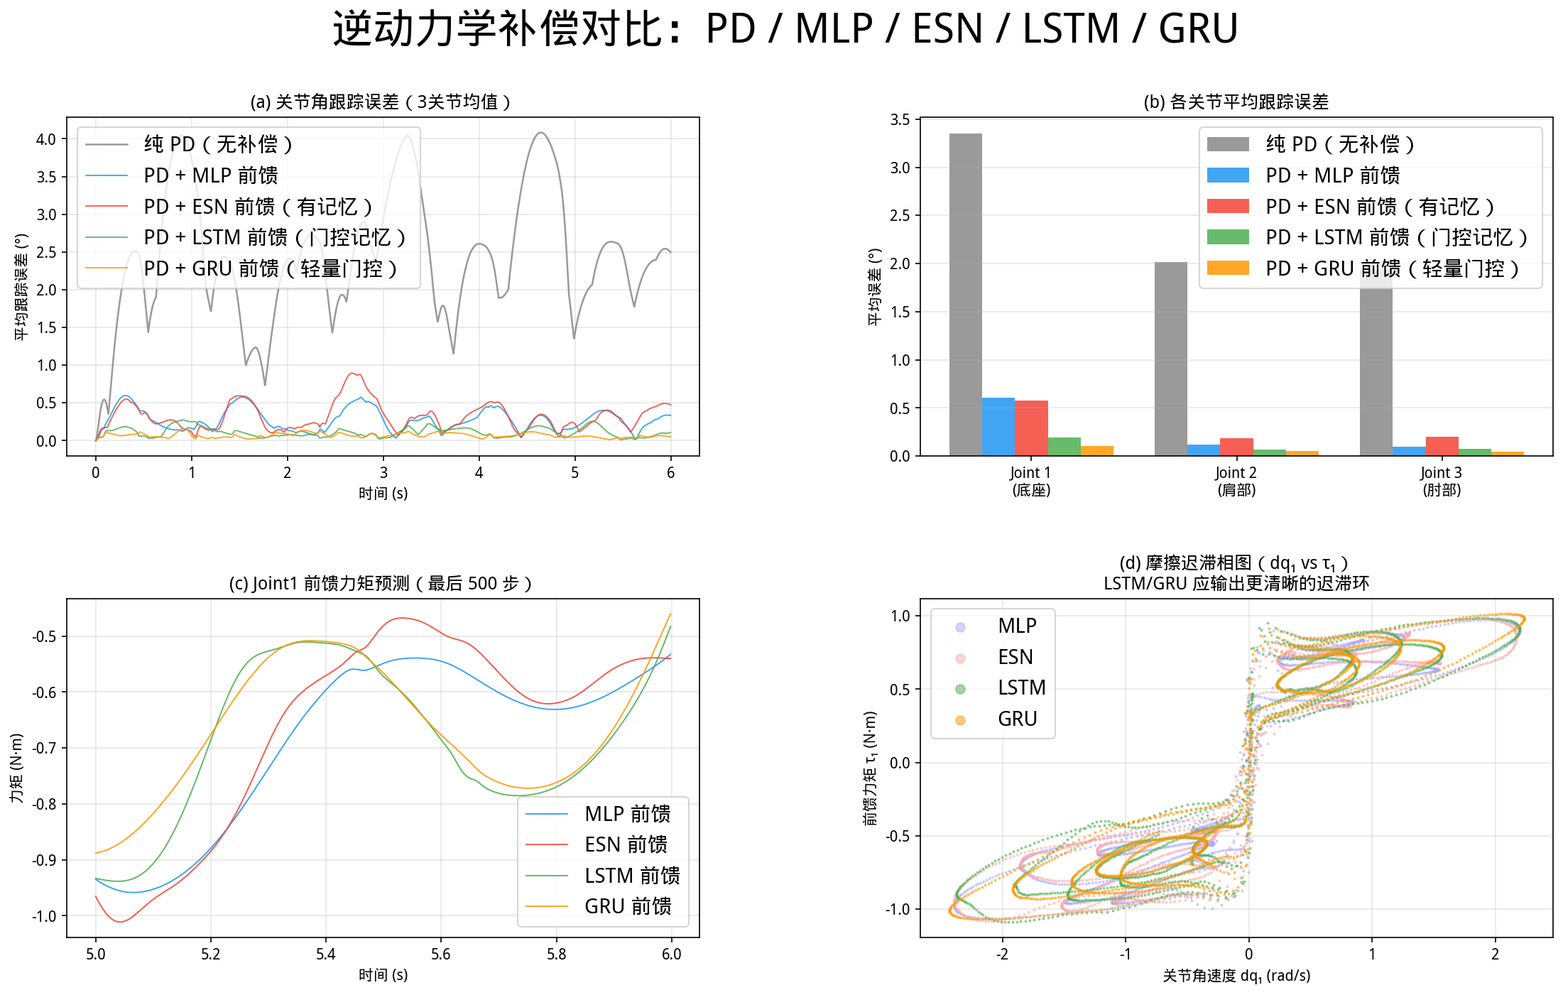
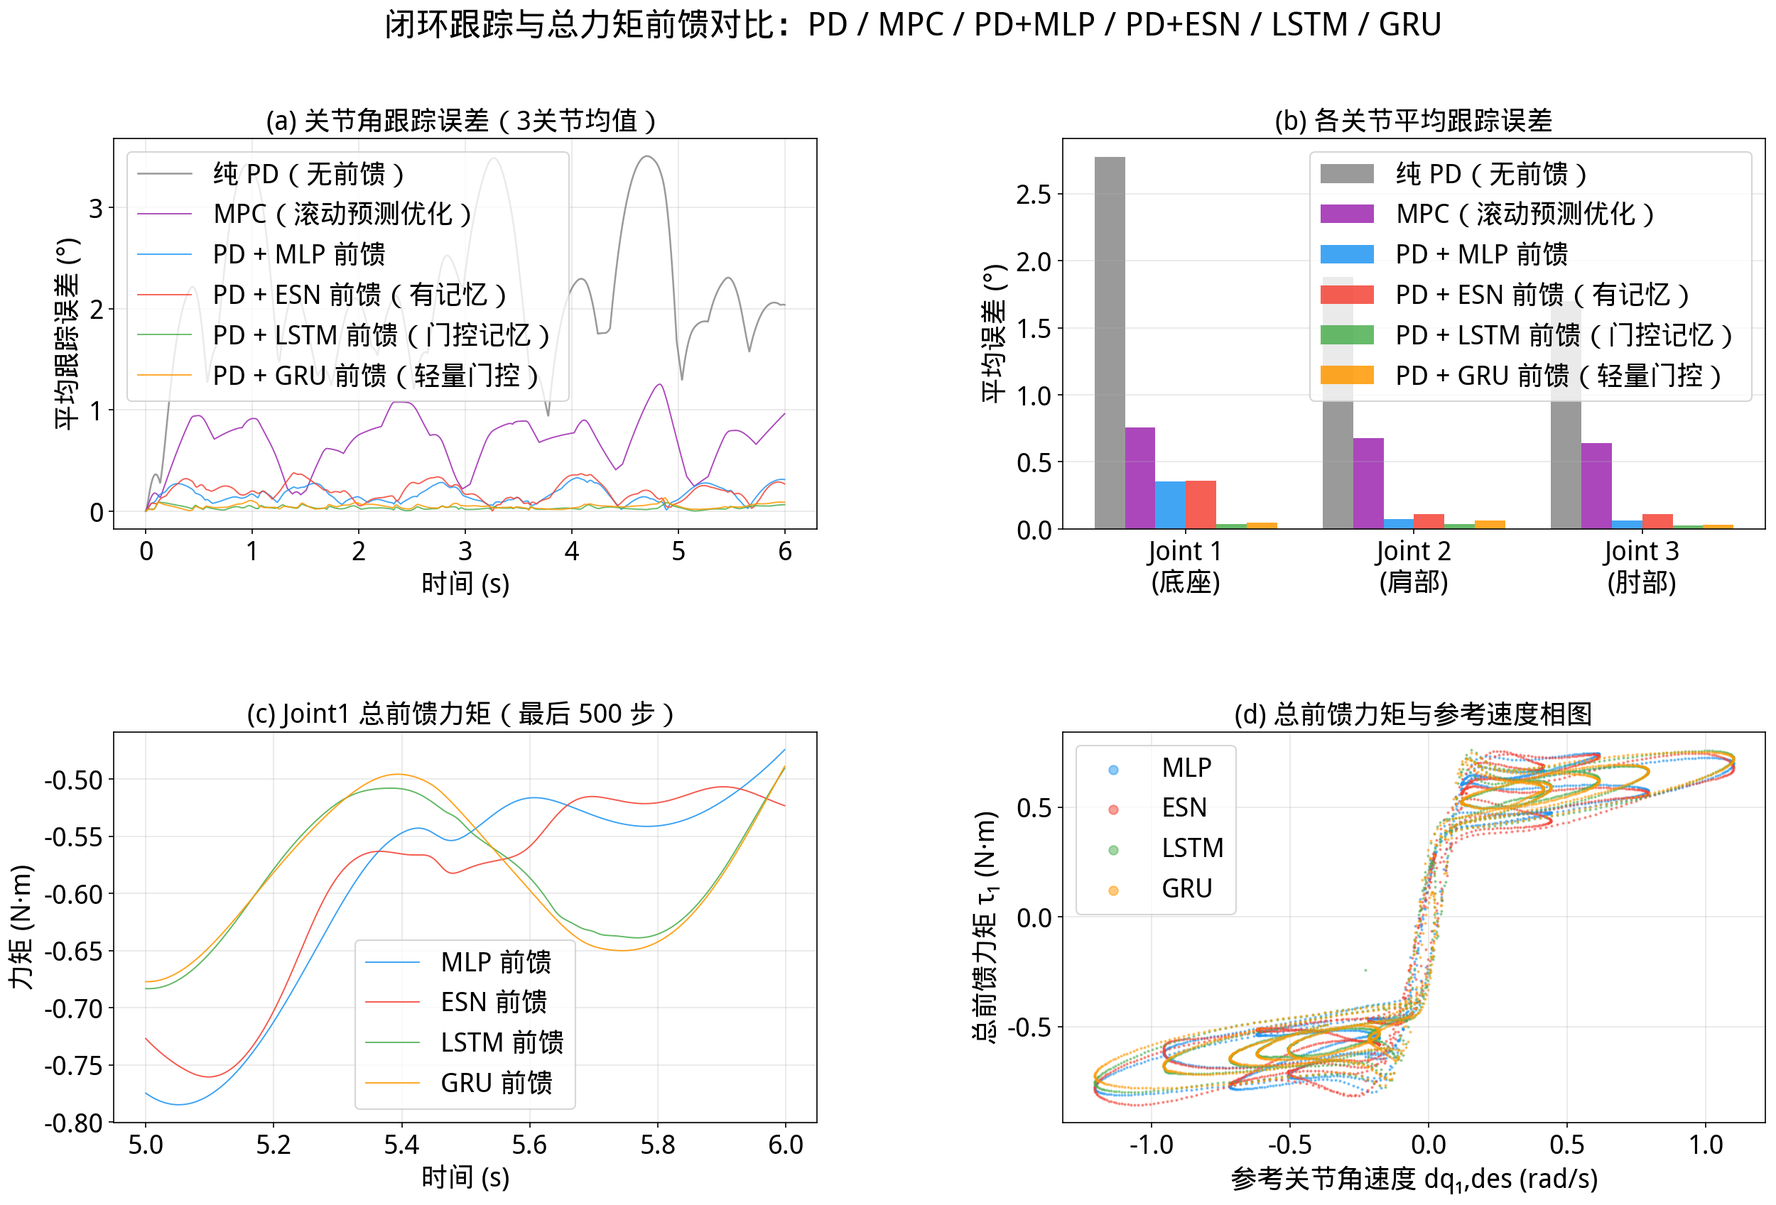
docs: record multi-agent audit and verified simulation results

diff --git a/README.md b/README.md
@@ -98,11 +98,12 @@ RobotARMNN/
 │       ├── data_gen_idyn.py        # IDyn 数据生成（MuJoCo 高刚度 PD 激励，30 条轨迹）
 │       ├── train_idyn.py           # IDyn 训练脚本（MLP / ESN / LSTM / GRU）
         ├── mpc_controller.py       # 🆕 MPC 控制器（滚动预测优化 / 解析 QP，去除 scipy 迭代）
-        └── visualize_idyn.py       # IDyn 控制误差对比图（PD/MPC/MPC+GRU/NN，自动保存）
+        └── visualize_idyn.py       # IDyn 控制误差对比图（PD/MPC/NN，自动保存）
 │
 ├── tests/
 │   ├── __init__.py
-│   └── test_kinematics.py          # 18 项运动学单元测试
+│   ├── test_kinematics.py          # 运动学单元测试
+│   └── test_*regressions.py        # IK、控制展示和训练协议回归
 │
 ├── checkpoints/                    # 已训练模型权重（*.pt / *.npz）
 │   ├── ik_2dof_mlp_best.pt         # 2-DOF IK MLP
@@ -297,7 +298,15 @@ uv run src/visualize_mujoco.py --arm 3dof --use_nn --model_type esn
 
 前馈力矩 τ_ff 由神经网络预测，PD 项负责误差纠偏（弱刚度：KP=8, KD=1.5）。
 
-🆕 **MPC 滚动预测优化**：每步在当前工作点线性化动力学，预测未来 N=10 步并解析求解最优力矩序列（QP 解析解，numpy 直接求解，每步 0.1-0.3 ms），只执行第 0 步，下一控制周期滚动重复。无需训练数据，体现"向前看"的预测控制思想。
+这是通过力矩控制实现位置轨迹跟踪：参考位置/速度进入前馈，实际位置/速度进入 PD。
+当前 MLP、ESN、LSTM、GRU 都学习高增益 PD 的总命令 `outputs`；ESN 使用参考状态历史，
+不直接读取实际状态或误差。它不是专门学习摩擦残差的模型，也不能仅凭环状相图证明摩擦迟滞记忆。
+
+**MPC 滚动预测优化**：每步在当前工作点线性化动力学，预测未来 N=10 步，
+用 numpy 求解无约束二次优化，再截断输出力矩，只执行第 0 步并滚动重复。
+它不依赖 NN 训练，但也不是严格的含力矩约束 QP。
+现有 GRU 输出不能直接作为 MPC 的摩擦残差叠加；原 `mpc_gru` 路径已禁用，
+需要先定义一致的残差目标并训练对应模型，才能重新评估组合方案。
 ### 数据生成
 
 ```bash
@@ -389,13 +398,23 @@ with np.load("export/idyn_poly_friction/selected_model.npz") as model:
 
 ```bash
 uv run src/train_idyn.py --model all     # 训练全部 4 种模型（MLP/ESN/LSTM/GRU）
-uv run src/train_idyn.py --model gru     # 只训练 GRU（最优模型）
+uv run src/train_idyn.py --model gru     # 只训练 GRU
 uv run src/train_idyn.py --model lstm
 uv run src/train_idyn.py --model mlp
 uv run src/train_idyn.py --model esn
 ```
 
-权重保存至 `checkpoints/idyn_3dof_{model}_best.pt`。每次只打印训练结束时的一行汇总，不刷屏。
+权重保存至 `checkpoints/idyn_3dof_{model}_best.pt`；重新训练前应归档需要保留的同名权重。
+
+四种模型统一使用末尾 20% 的完整轨迹验证；标准化只使用训练轨迹输入。
+默认 `--warmup 100`：每条轨迹前 100 步（500 Hz 下为 0.2 秒）不计训练损失和验证分数，
+递归模型仍可用这些输入建立状态。MLP/ESN 的 CLI 默认 batch 为 65536，LSTM/GRU 为 256，
+显式 `--batch_size` 对所有模型生效。CLI 默认训练 1000 轮；`--epochs 0` 使用各模型函数默认轮数。
+
+LSTM/GRU 保留独立块、零状态训练，末尾不足完整块的训练样本丢弃；验证改为完整轨迹连续推理，
+每条轨迹只在开头清零，预热后的尾部全部参与评分。此训练策略不等同于整轨迹 BPTT。
+新 checkpoint 的 `model.training_metadata` 记录目标、输入定义、采样周期、数据哈希、轨迹划分和预热协议。
+IK ESN 同样只用训练集估计标准化；修复训练代码不会自动更新旧权重，本次仅进行了隔离的小网络训练验证。
 
 ### 可视化
 
@@ -406,74 +425,87 @@ uv run src/visualize_idyn.py
 # 禁用保存，仅显示窗口
 uv run src/visualize_idyn.py --no-save
 
-# 🆕 重点：MPC 滚动预测控制对比（同时打开 MuJoCo 观测仿真过程）
-uv run src/visualize_idyn.py --model mpc mpc_gru gru --mujoco
+# 在相同轨迹上比较总力矩前馈，窗口明确显示 ESN 方案
+uv run src/visualize_idyn.py --model mlp esn lstm gru mpc --amp_scale 1 --mujoco --viewer-model esn
 
 # 仅 MPC，不加 GRU 前馈，观察纯预测控制效果
-uv run src/visualize_idyn.py --model mpc --mujoco
+uv run src/visualize_idyn.py --model mpc --mujoco --viewer-model mpc
 
-# 调大预测域步数（默认 N=10，越大预测越准，计算也略慢）
-uv run src/visualize_idyn.py --model mpc mpc_gru --mpc_horizon 20 --mujoco
+# 改变预测域步数，评估跟踪误差与计算量（更长不保证更准确）
+uv run src/visualize_idyn.py --model mpc --mpc_horizon 20 --mujoco --viewer-model mpc
 
-# 调整测试轨迹幅值 / 时长
-uv run src/visualize_idyn.py --model mpc mpc_gru gru --amp_scale 3.0 --duration 10.0 --mujoco
+# 增幅测试应与训练幅值 amp_scale=1 分别报告
+uv run src/visualize_idyn.py --model esn gru --amp_scale 2 --duration 10 --mujoco --viewer-model gru
 
 # 全方案对比（所有 NN + MPC，不打开 MuJoCo，自动保存图片）
 uv run src/visualize_idyn.py
 
 # Windows PowerShell（无 MuJoCo 窗口，仅保存图片）：
-$env:MPLBACKEND="Agg"; uv run src/visualize_idyn.py --model mpc mpc_gru gru
+$env:MPLBACKEND="Agg"; uv run src/visualize_idyn.py --model mpc esn gru --amp_scale 1
 ```
 
-> 💡 **`--mujoco` 说明**：打开 MuJoCo 被动查看器，实时显示跟踪效果最好方案的仿真动画。  
-> 可用鼠标拖动旋转/平移视角，滚轮缩放。按 `Ctrl+C` 或关闭窗口退出。
+`--mujoco` 打开真实力矩控制＋`mj_step` 的动力学窗口，`--viewer-model` 明确选择显示方案，
+红色目标球跟随期望末端位置；窗口不会自动判定哪个算法最好。
+控制积分保持 500 Hz，窗口约 56 Hz 刷新，避免屏幕垂直同步把控制循环拖慢；画面显示当前方案和即时关节误差。
+可用鼠标拖动旋转/平移视角，滚轮缩放，关闭窗口退出。
+未指定幅值时默认 `amp_scale=2`，高于训练生成时的幅值设置，不能混作训练幅值下的测试。
 
 ### IDyn 模型架构
 
 | 模型 | 架构 | 记忆 | 参数量 |
 |------|------|------|--------|
-| IDynMLP | 4×Linear(256, Tanh) + 输入归一化 | 无 | ~330K |
+| IDynMLP | 4×Linear(256, Tanh) + 输入归一化 | 无 | 199,939 |
 | IDynESN | 固定储层(512) + MLP读出 | 递归状态 | ~66K 可训练 |
-| IDynLSTM | 2层LSTM(256) + Linear | 遗忘/输入/输出门 | ~790K |
-| IDynGRU | 2层GRU(256) + Linear | 重置/更新门 | ~595K |
+| IDynLSTM | 4层LSTM(256) + Linear | 遗忘/输入/输出门 | 1,850,115 |
+| IDynGRU | 4层GRU(256) + Linear | 重置/更新门 | 1,387,779 |
 
 输入：`[q₁,q₂,q₃, dq₁,dq₂,dq₃]`（6维）  输出：`[τ₁, τ₂, τ₃]`（N·m）
+表中架构和参数量取自现有 checkpoint；训练函数与 CLI 的默认值可不同。
 
 ---
 
 ## 📊 训练结果
 
-### 🎯 IK 末端位置误差（8000 随机测试点）
+### 🎯 IK 末端位置误差（8000 随机测试点，seed=42）
 
-| 模型 | 2-DOF 均值 | 2-DOF p95 | 3-DOF 均值 | 3-DOF p95 |
+误差只统计有限且满足全部关节限位的输出，合法解率单独报告，不等于精度成功率。
+3-DOF 为球壳广域压力测试，包含需要负肘分支的正肘训练域外目标，不等同于训练域内精度。
+
+| 模型 | 2-DOF 合法解率 | 2-DOF 均值／p95 | 3-DOF 合法解率 | 3-DOF 均值／p95 |
 |------|-----------|-----------|-----------|-----------|
-| 解析 IK（基准） | 0.000 mm | 0.00 mm | 0.000 mm | 0.00 mm |
-| MLP IK | 0.923 mm | 2.1 mm | 1.076 mm | 1.9 mm |
-| ESN IK | 6.586 mm | 13.1 mm | 4.863 mm | 9.8 mm |
+| 解析 IK（基准） | 100% | 0.000／0.00 mm | 100% | 0.000／0.00 mm |
+| MLP IK | 100% | 0.920／2.08 mm | 94.4875% | 0.628／1.39 mm |
+| ESN IK | 100% | 6.654／13.07 mm | 95.4625% | 3.986／8.15 mm |
 
-### ⚡ IDyn 闭环跟踪误差（RTX 4090，30 条轨迹）
+两个评估入口使用累计样本数停止，默认 8000 点仅需约 1.3 万／1.8 万个候选；
+旧循环按批次数停止，理论上会生成 1.92 亿个候选。单点与批量解析 IK 共用限位与分支逻辑。
+实时 NN 超限或非有限输出会被拒绝，窗口保留上一有效姿态并提示，缺失权重不会自动冒充解析结果。
 
-以下为已有 `outputs` 示教训练及权重的历史结果；本次标签修复未重新训练模型，
-这些数值不代表版本 2 的 `outputs_inv` / `outputs_bg` 离线预测精度。
+### ⚡ IDyn 闭环跟踪复核（2026-11-10）
 
-| 方案 | 验证 MAE | 闭环误差（均值） | 各关节误差 [J1, J2, J3] | 每步用时 |
-|------|---------|---------------|----------------------|------|
-| 纯 PD（基准，无前馈） | — | 2.433° | [3.354, 2.014, 1.931]° | ~0.01 ms |
-| 🆕 **MPC（滚动预测优化，N=10）** | — | 0.672° | — | 0.1-0.3 ms |
-| 🆕 **MPC + GRU 前馈** | — | 0.416° | — | ~0.4 ms |
-| PD + MLP | 0.042 N·m | 0.276° | [0.609, 0.122, 0.095]° | CPU |
-| PD + ESN | 0.054 N·m | 0.321° | [0.579, 0.183, 0.202]° | CPU |
-| PD + LSTM | 0.043 N·m | 0.112° | [0.190, 0.068, 0.077]° | CPU |
-| **PD + GRU** | **0.014 N·m** | **0.069°** | **[0.107, 0.053, 0.048]°** | CPU |
+使用现有 `outputs` 权重、CPU 单线程推理、500 Hz、每条 6 秒，统计全部时刻与三个关节的平均绝对角误差。
+修复后的有效方案与已保存基线在 seed=999 的两种幅值下逐点一致。旧权重未按新训练协议重训，
+因此移除了原来使用不同划分和状态协议的验证 MAE 横比；下表也不代表 `outputs_bg/inv` 的离线精度。
 
-> 🏆 GRU 前馈比纯 PD 误差降低 **35×**；MPC 比纯 PD 降低 **3.6×**，无需训练数据。
-> MPC+GRU 组合比纯 PD 改善 **5×**；每步 0.1-0.3 ms（原 scipy 迭代 3-10 ms，已用 numpy 解析 QP 替代）。
+| seed／幅值 | PD | MPC | PD+MLP | PD+ESN | PD+LSTM | PD+GRU |
+|------|------:|------:|------:|------:|------:|------:|
+| 999／1 | 2.1170° | 0.6890° | 0.1641° | 0.1935° | 0.0336° | 0.0472° |
+| 1000／1 | 2.1862° | 0.7082° | 0.2035° | 0.2200° | 0.0492° | 0.0514° |
+| 1001／1 | 2.2973° | 0.7865° | 0.1682° | 0.2064° | 0.0396° | 0.0521° |
+| 三条幅值1均值 | 2.2002° | 0.7279° | 0.1786° | 0.2067° | 0.0408° | 0.0502° |
+| 999／2（增幅测试） | 2.4330° | 0.7724° | 0.2755° | 0.3213° | 0.1115° | 0.0695° |
+
+ESN 在这些轨迹上改善 PD，但没有优于 MLP；不能据此宣称摩擦记忆优势或硬件泛化。
+四组六方案均数值有限，积分后无关节越界、无命令饱和；`mj_step` 返回时记录的接触数为零，未监测全部 RK4 内部子阶段。
+完整修复、复现实验与剩余限制见 [审查记录](docs/audit_2026-11-10.md)。
 
 ---
 
 ## 🎮 可视化操作说明
 
-`visualize.py mujoco` 和 `visualize_idyn.py`（`--mujoco` 模式）支持以下键盘操作：
+以下键盘操作属于 `visualize.py mujoco` / `visualize_mujoco.py` 的 IK 几何查看器。
+它们直接设置关节姿态并调用 `mj_forward`，适合检查 IK 几何运动，不能验证摩擦或动力学补偿。
+IDyn 动力学窗口使用独立参考轨迹，不支持这些按键移动参考目标。
 
 | 按键 | 动作 |
 |------|------|

diff --git a/docs/audit_2026-11-10.md b/docs/audit_2026-11-10.md
@@ -1,0 +1,99 @@
+# RobotARMNN 多智能体审查、修复与仿真记录
+
+整理日期：2026-11-10。审查基线：`45a8972`。三组分别检查 IK、控制与展示、模型与训练，并交叉只读审查；主智能体复核关键复现、集成测试与原生窗口。修复已获用户授权分批实施。
+
+## 当前控制任务
+
+项目通过力矩控制实现位置轨迹跟踪：
+
+```text
+tau = tau_ff(q_des, dq_des, history)
+    + KP * (q_des - q) + KD * (dq_des - dq)
+```
+
+现有 MLP、ESN、LSTM、GRU 都学习高增益 PD 示教总命令 `outputs`。ESN 的状态只接收参考位置、速度历史，不直接接收实际状态或误差。总命令包含惯性、重力、摩擦和示教误差的影响，不能把网络直接解释成纯摩擦残差。
+
+`outputs_inv` 是指定参考加速度的逆动力学力矩，使用九维 `inputs_full`；`outputs_bg` 是参考加速度为零时的补偿力矩，使用六维 `inputs`。前一轮的标签版本 2 修复仍有效，本轮没有重新生成数据或覆盖权重。
+
+## 已复现并修复
+
+| 范围 | 缺陷与影响 | 修复和验证 |
+|---|---|---|
+| IK 采样 | 四个采样器把数组列表长度当作有效点数；8000 点对应 8000 批、1.92 亿候选 | 累计有效点数，单批最多 8192；默认 2D/3D 分别只需 13310/17767 个候选，与旧随机流的前 8000 点一致。零点返回正确空数组，负数和空采样域明确报错 |
+| IK 解算 | 3DOF 批量求解漏查关节限位，单点与批量分支不同；其他自定义限位也可能被绕过 | 单点、批量共用双精度候选求解，检查全部关节，优先分支不合法时尝试备用肘分支；补上负水平半径及轴向自由 yaw 的合法解 |
+| MJCF 单位 | 普通两份 XML 未声明弧度，加载后 ±π 被解释为 ±0.054831 rad | 两份文件补 `compiler angle="radian"`，直接加载检查限位；IDyn 的 friction XML 原已正确 |
+| NN IK 输出 | NN 合法标记全为真，超限输出也显示为成功；实时窗口直接接受，缺权重可静默回退解析 | 原始 sin/cos 与解码角均检查有限及限位；非法误差记 NaN，单独报合法解率；四条实时路径拒绝非法姿态并提示，缺模型终止该模式；旧 viewer 无叠字 API 时保留控制台提示 |
+| 控制组合 | 把学习总力矩的 GRU 再叠加到 MPC 总力矩，误称摩擦残差 | 禁用 `mpc_gru` 并说明需要定义残差后重训；保留独立 MPC 和 PD+GRU 比较 |
+| 动力学展示 | 可能显示错误方案，参考球不随轨迹更新，模型与 viewer 共享，状态与参考错开一积分步 | `--viewer-model` 显式选择实际启用方案；独立渲染模型/数据，参考球由 MuJoCo FK 更新，显示与日志取积分前同刻；场景加锁，关闭窗口停止并裁剪日志，异常也清理资源 |
+| 展示节奏 | 500 Hz 每步同步 viewer 遇到 60 Hz 垂直同步，会显著放慢运动 | 画面约 60 Hz 更新，物理控制仍每步 500 Hz；按绝对墙钟对齐播放节奏，显示抽样不改变控制轨迹 |
+| 模型加载 | 可视化直接读取 CUDA 存储的旧 checkpoint，CPU 机器无法加载 | CLI 明确 `map_location="cpu"`，隐藏 CUDA 的子进程回归通过 |
+| IK 训练 | ESN 用全量数据估计输入标准化，验证集泄漏 | 只用训练集统计，最佳 checkpoint 的统计不再被全量数据覆盖 |
+| IDyn 验证 | MLP 按帧划分，递归模型按轨迹划分；RNN 分块清零评分与部署连续状态不一致 | 所有模型使用末尾 20% 完整轨迹验证，标准化只用训练轨迹；统一每条前 100 步不计 loss/评分；RNN 验证完整连续运行并保留尾部 |
+| 训练边界 | `epochs=1` 导致余弦调度除零；RNN 忽略 CLI batch | 修复调度周期，显式 batch 生效；MLP/ESN CLI 默认 65536，LSTM/GRU 默认 256 |
+| Checkpoint | ESN 把最大矩阵元素当谱半径，缺任务、划分与数据来源记录 | 保存正确谱半径；旧文件加载完整储层后重算一次，新存取保留预测；新增任务、输入、采样周期、数据哈希、轨迹 ID、预热/评分协议元数据 |
+
+关键复现：目标 `[0.1, 0, 0.05]` 原批量 3DOF 肩角为 `-1.70448 rad`，超过 `-π/2`；修复后尝试另一肘分支。自定义底座限位 `[-0.1,0.1]` 时，合法角 `(0,1.4,0.8)` 的目标原被判不可达，现能重构合法解。
+
+还纠正了说明：Coulomb 摩擦损失加线性阻尼没有独立迟滞状态，不等同完整 Stribeck 模型；总前馈力矩对速度的环状图不能单独证明摩擦迟滞。MPC 当前为无约束二次优化后首步限幅；CTC 类采用刚体前馈加力矩域 PD，未改其控制律。
+
+## 验证与结果
+
+最终全套 **115 项通过**（4.59 秒），`git diff --check` 通过。回归覆盖运动学、标签物理一致性、多项式模型、训练协议与展示。复现与测试命令：
+
+```bash
+OPENBLAS_NUM_THREADS=1 OMP_NUM_THREADS=1 MPLBACKEND=Agg uv run --no-sync pytest tests/ -q
+MPLBACKEND=Agg uv run --no-sync src/visualize.py ik --arm all --n_test 8000 --seed 42
+MPLBACKEND=Agg uv run --no-sync src/visualize_idyn.py --traj_seed 999 --amp_scale 1
+```
+
+4090 上另做六路单轮小网络训练（IK MLP/ESN、IDyn MLP/ESN/LSTM/GRU），使用独立数据与输出目录，仅在该验证进程旁路 `torch.compile`，验证训练、单轮调度、存取与元数据，不作为精度实验。原有全部 `.pt` 和 `data/idyn_3dof.npz` 的 SHA-256 不变。真实旧 ESN 保存副本再重载后，谱半径约 0.9、预测逐元素一致。
+
+8000 点 IK（seed=42），误差仅统计合法输出：
+
+| 模型 | 2DOF 合法解率 | 均值／p95 (mm) | 3DOF 合法解率 | 均值／p95 (mm) |
+|---|---:|---:|---:|---:|
+| 解析 | 100% | 0.000／0.00 | 100% | 0.000／0.00 |
+| MLP | 100% | 0.920／2.08 | 7559/8000（94.4875%） | 0.628／1.39 |
+| ESN | 100% | 6.654／13.07 | 7637/8000（95.4625%） | 3.986／8.15 |
+
+3DOF 是球壳广域压力测试，包含需要负肘分支的正肘训练域外目标；合法解率也不等同于误差阈值内的成功率。默认 2D/3D 各 10 万个合法 FK 点的逆解复核均成功，最大重构误差约 `6.8e-8 m`。
+
+真实闭环使用 `ctrl` 和 `mj_step`，500 Hz、每条 6 秒，现有权重 CPU 单线程推理，全部时刻和三个关节平均绝对角误差：
+
+| seed／幅值 | PD | MPC | PD+MLP | PD+ESN | PD+LSTM | PD+GRU |
+|---|---:|---:|---:|---:|---:|---:|
+| 999／1 | 2.116980° | 0.688953° | 0.164084° | 0.193538° | 0.033558° | 0.047168° |
+| 1000／1 | 2.186172° | 0.708155° | 0.203496° | 0.219970° | 0.049211° | 0.051421° |
+| 1001／1 | 2.297333° | 0.786457° | 0.168169° | 0.206448° | 0.039566° | 0.052088° |
+| 三条幅值1均值 | 2.200162° | 0.727855° | 0.178583° | 0.206652° | 0.040778° | 0.050226° |
+| 999／2（增幅测试） | 2.433016° | 0.772381° | 0.275527° | 0.321301° | 0.111550° | 0.069463° |
+
+四组六方案数值有限、积分后无关节越界、无命令饱和；`mj_step` 返回阶段接触记录为零，没有监测全部内部 RK4 子阶段。修复后的有效控制方案在 seed=999 两种幅值下与保存基线逐元素一致。ESN 改善 PD，但三条幅值1轨迹均弱于 MLP，不能据此声称独立摩擦记忆优势。结果也不代表器件精度或全工作空间泛化。
+
+![闭环跟踪与总力矩前馈对比](idyn_comparison.png)
+
+图为 seed=999、幅值1；相图使用与总前馈对应的参考速度，不作迟滞因果证明。
+
+## 原生窗口与运动录像
+
+```bash
+uv run --no-sync src/visualize_idyn.py --model esn --amp_scale 1 --mujoco --viewer-model esn
+```
+
+已实际打开修复后的原生窗口，核对完整机械臂、当前方案、同刻误差及参考红球。窗口执行真实力矩控制积分；IK 查看器只设置 `qpos` 后调用 `mj_forward`，两种用途已明确区分。
+
+本机证据位于 Git 忽略目录 `export/audit_simulation/`：
+
+- `esn_live_simulation.mp4`：修复后原生 ESN 动力学窗口录屏，1300×1000、20 fps、12 秒；画面标有 Dynamics simulation。其采集时仍逐步同步 viewer，因此画面中的仿真时间慢于录像墙钟；后续显示抽帧修复不改物理轨迹。
+- `esn_live_simulation_realtime.mp4`：刷新修复后的最终原生窗口录屏，1300×1000、20 fps、7 秒；已核对仿真时间基本跟随墙钟，控制500 Hz、显示约56 Hz。另一次最终30秒完整原生运行正常结束，PD/ESN平均误差为2.222°/0.186°。
+- `dynamics_replay_pd_esn_gru.mp4`：真实闭环结果的 18 秒对比回放，画面明确标 Dynamics replay。
+- `replay_viewer.py`：查看完整真实记录；`1` PD、`2` ESN、`3` GRU、`4` MLP、`5` LSTM、`6` MPC，空格暂停，`A` 自动轮换，`R` 重播；青色为参考姿态。
+- `baseline_seed*.npz/.json`、`baseline_summary.json`：实际位置、速度、命令、执行力矩、接触与源码/权重哈希。
+- `control_regression_comparison.json`、`control_cadence_regression.json`、`ik_fix_validation.json`：修复前后逐点一致性、显示抽帧、采样计数及合法率。
+- `learning_smoke_tc2ec4dk/report.json`：隔离 GPU 训练、旧权重与数据哈希核对记录。
+
+## 剩余实验边界
+
+现有模型未按新训练协议正式重训，旧验证 MAE 已从 README 的公平横比中移除。RNN 仍保留独立块零状态训练，训练尾部不足完整块时丢弃；这已记录在 metadata 中，不等同整轨迹 BPTT。
+
+若目标变为专门验证器件对摩擦非线性的补偿，需要另定义可观测、与基模型一致的摩擦残差标签和输入，再做无补偿／静态模型／ESN 的闭环对照。本轮没有创建该新任务或覆盖已有实验资产。
